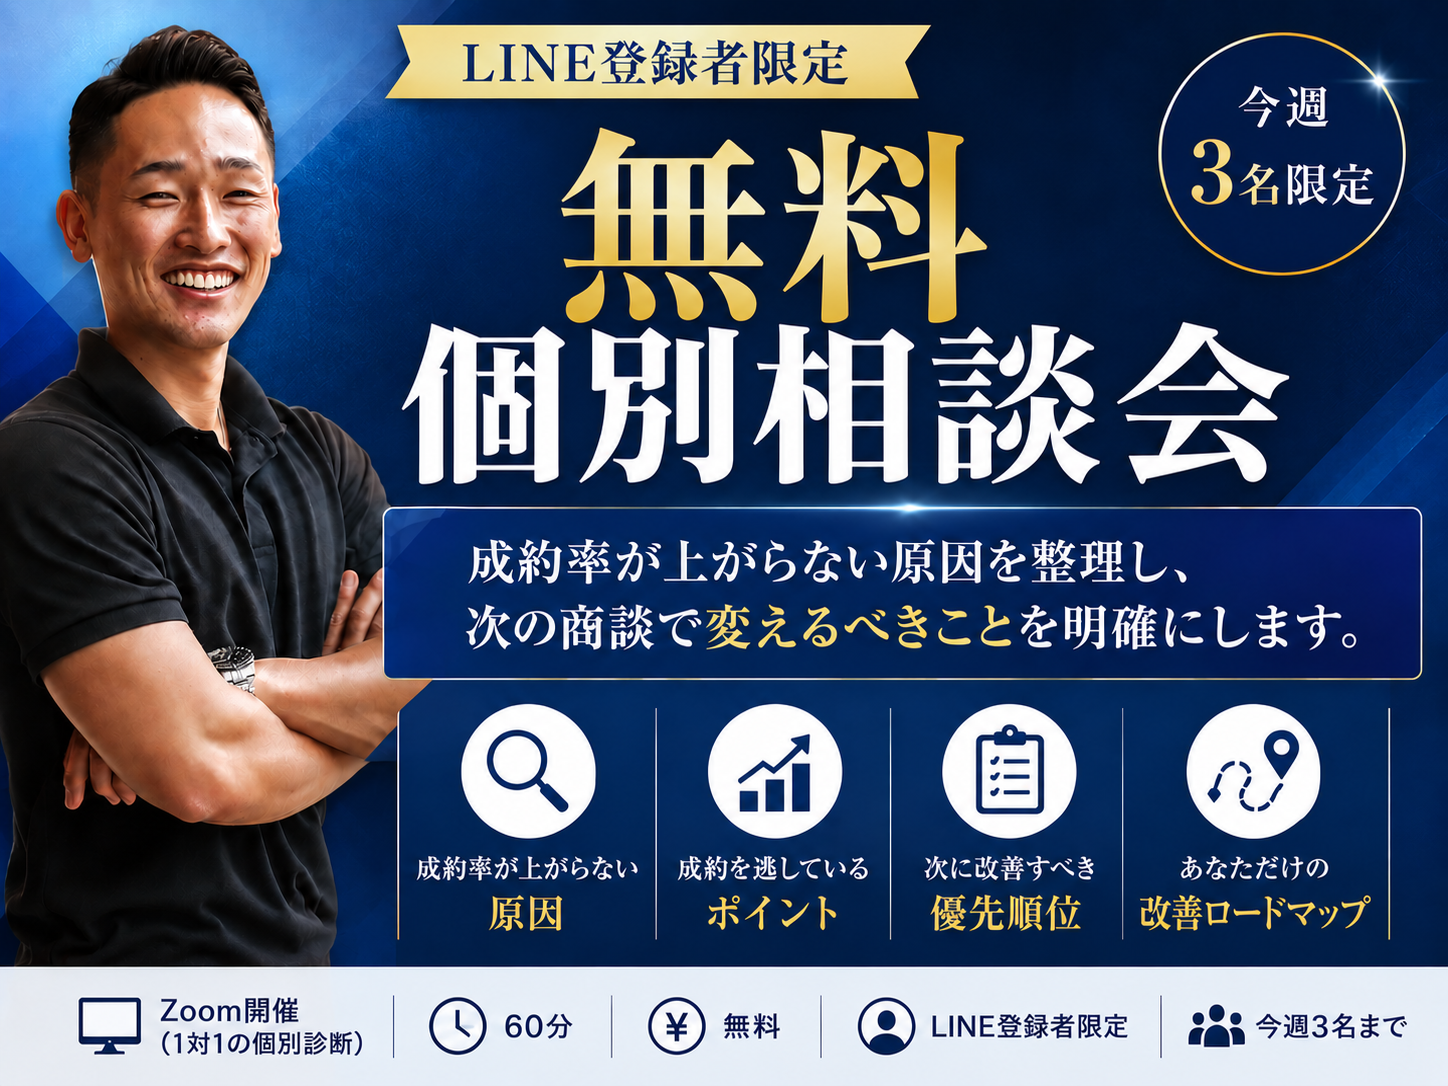
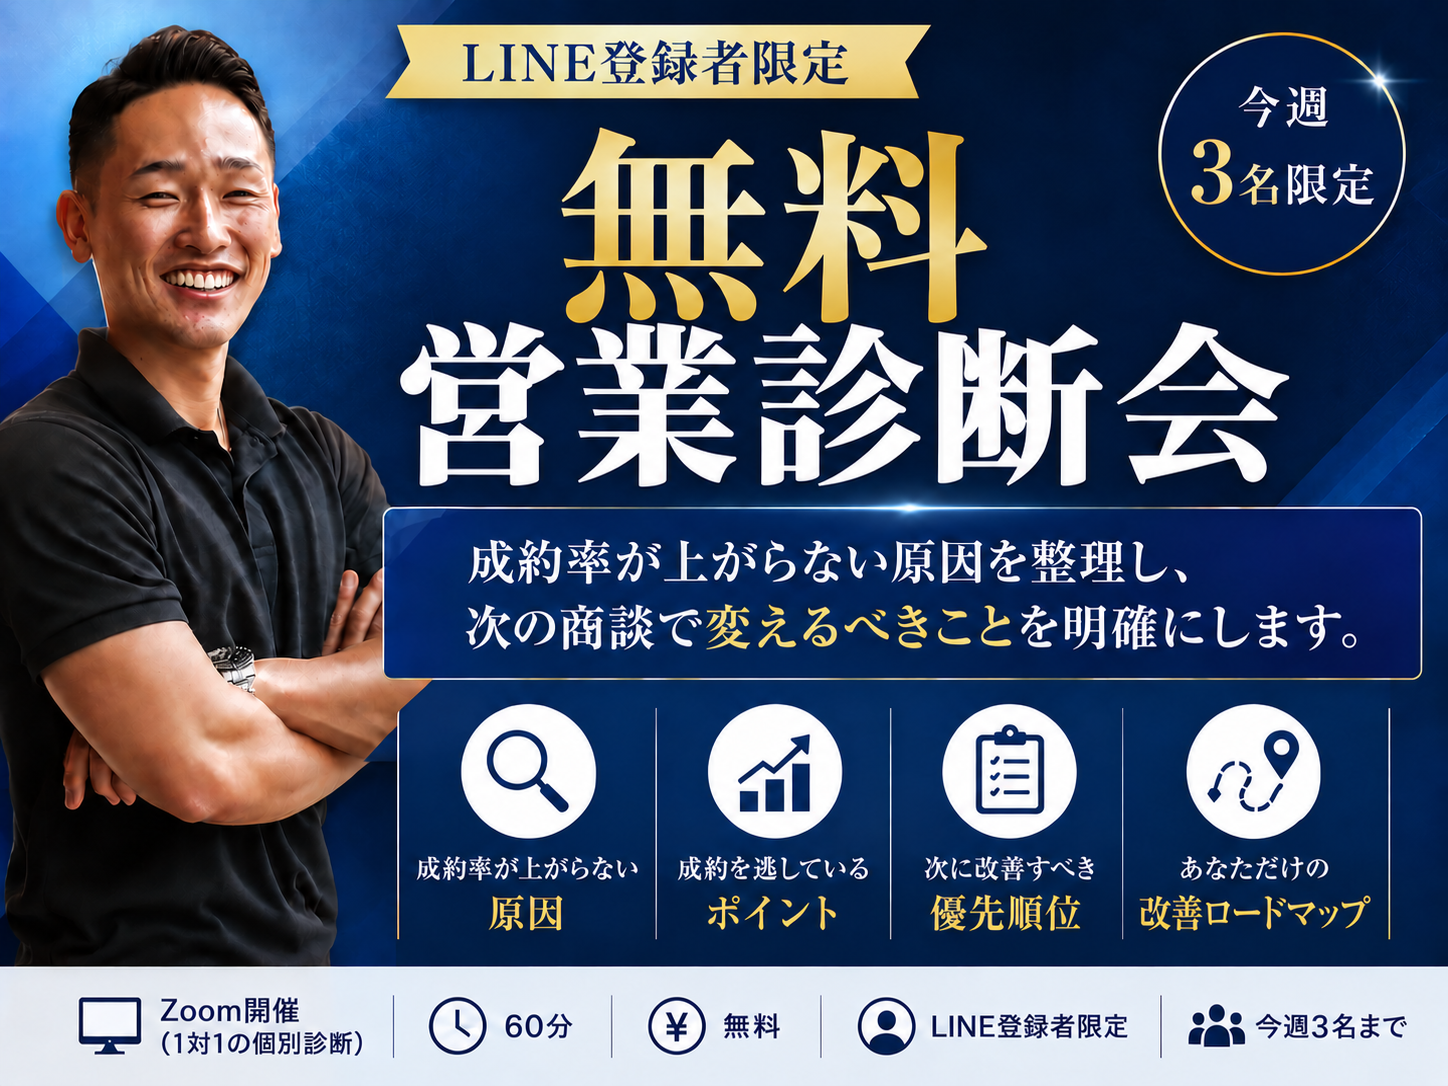
名前を営業診断会に変更（画像・ページ名・ボタン・完了表示・フォーム項目）

diff --git a/index.html b/index.html
@@ -3,7 +3,7 @@
 <head>
 <meta charset="UTF-8">
 <meta name="viewport" content="width=device-width, initial-scale=1.0">
-<title>無料個別相談</title>
+<title>60分無料 営業診断会</title>
 <style>
   * { margin: 0; padding: 0; box-sizing: border-box; }
   body {
@@ -469,7 +469,7 @@
 
   <!-- ヒーロー画像 -->
   <div style="width:100%;">
-    <img src="hero.png" alt="LINE登録者限定 無料個別相談会" style="width:100%; display:block;">
+    <img src="hero.png" alt="LINE登録者限定 無料 営業診断会" style="width:100%; display:block;">
   </div>
 
   <hr class="separator">
@@ -541,7 +541,7 @@
       </div>
 
       <div class="form-group">
-        <div class="form-label">今回の個別相談に申し込んだ理由 <span class="required">必須</span></div>
+        <div class="form-label">今回の営業診断会に申し込んだ理由 <span class="required">必須</span></div>
         <input type="text" class="form-input" name="entry.64517897" id="field-reason" placeholder="必ず入力ください" required>
       </div>
 
@@ -573,7 +573,7 @@
 
       <!-- 送信ボタン -->
       <div class="submit-section">
-        <button type="submit" class="submit-btn">無料個別相談に申し込む</button>
+        <button type="submit" class="submit-btn">営業診断会に申し込む</button>
       </div>
     </form>
   </div>
@@ -797,7 +797,7 @@
         '<p style="font-size:24px; font-weight:700; letter-spacing:2px;">お申込み完了</p>' +
         '</div>' +
         '<div style="margin-bottom:32px;">' +
-        '<p style="font-size:20px; font-weight:700; color:#1a3a8b; margin-bottom:16px;">無料個別相談のご予約が確定しました</p>' +
+        '<p style="font-size:20px; font-weight:700; color:#1a3a8b; margin-bottom:16px;">営業診断会のご予約が確定しました</p>' +
         '</div>' +
         '<div style="background:#fff8f8; border:2px solid #d32f2f; border-radius:8px; padding:24px; margin-bottom:32px;">' +
         '<p style="font-size:16px; font-weight:700; color:#d32f2f; margin-bottom:8px;">次にやること</p>' +
@@ -821,7 +821,7 @@
       window.scrollTo({ top: 0, behavior: 'smooth' });
     }).catch(function() {
       btn.disabled = false;
-      btn.textContent = '無料個別相談に申し込む';
+      btn.textContent = '営業診断会に申し込む';
       alert('送信に失敗しました。もう一度お試しください。');
     });
   });
